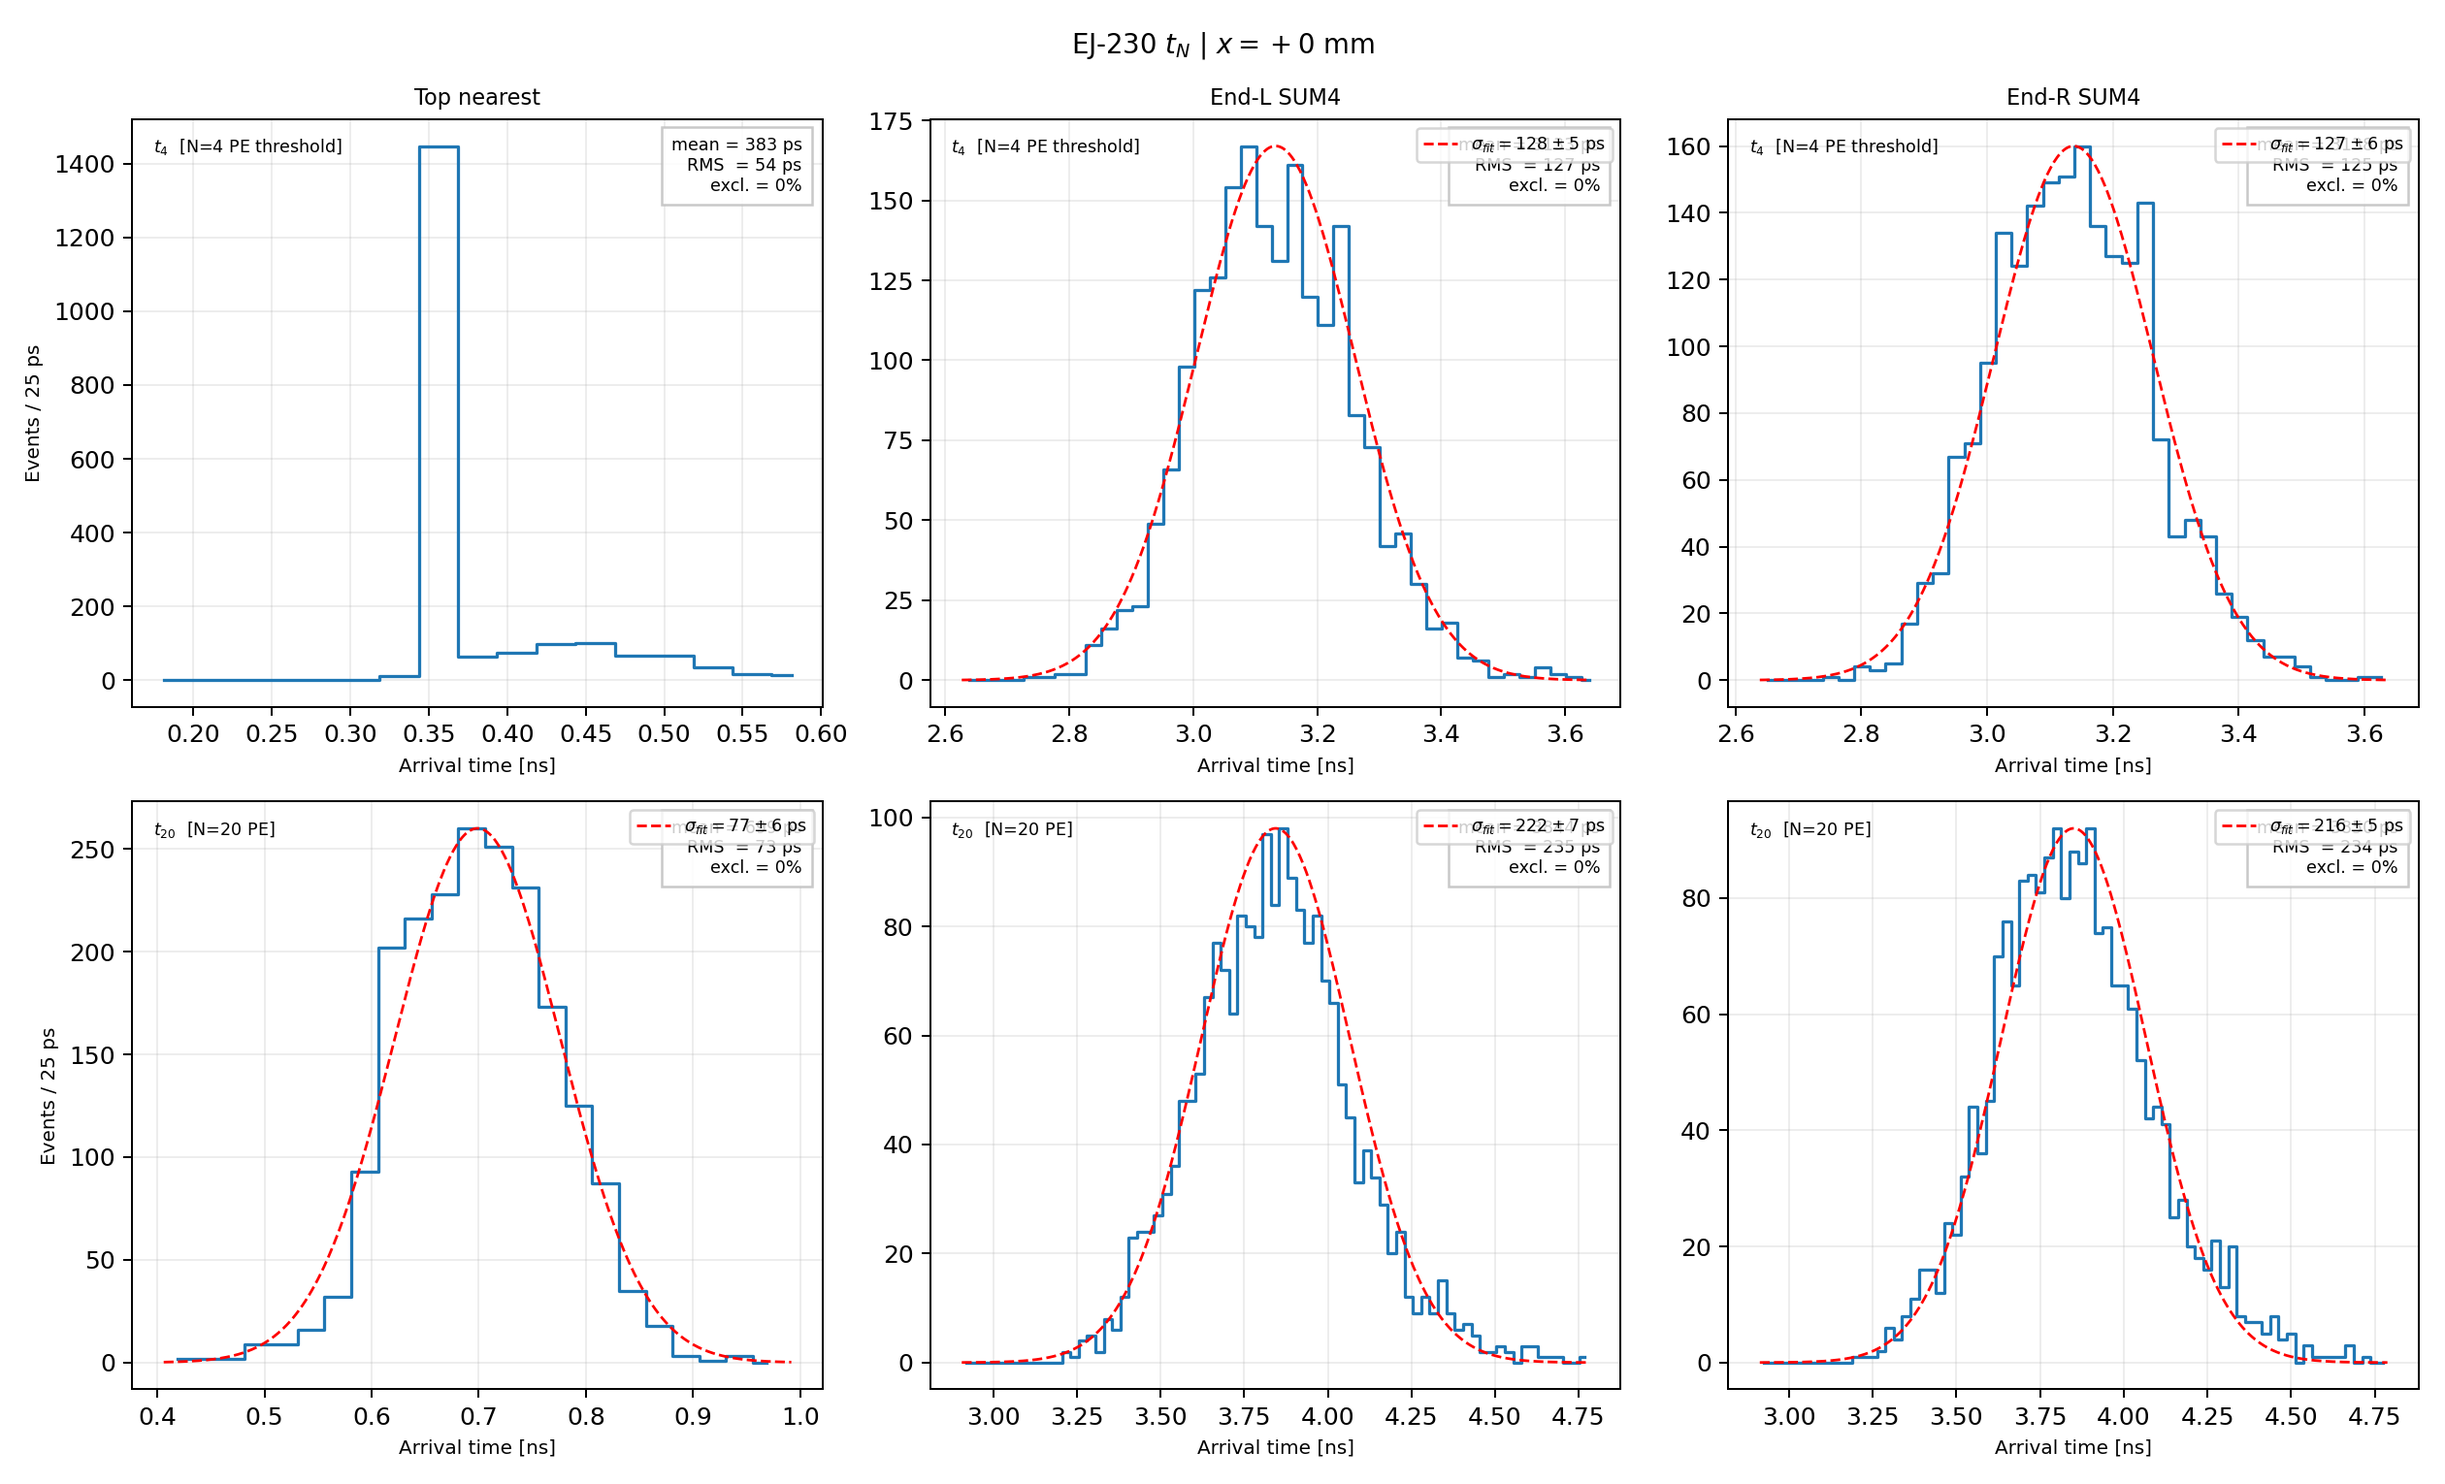
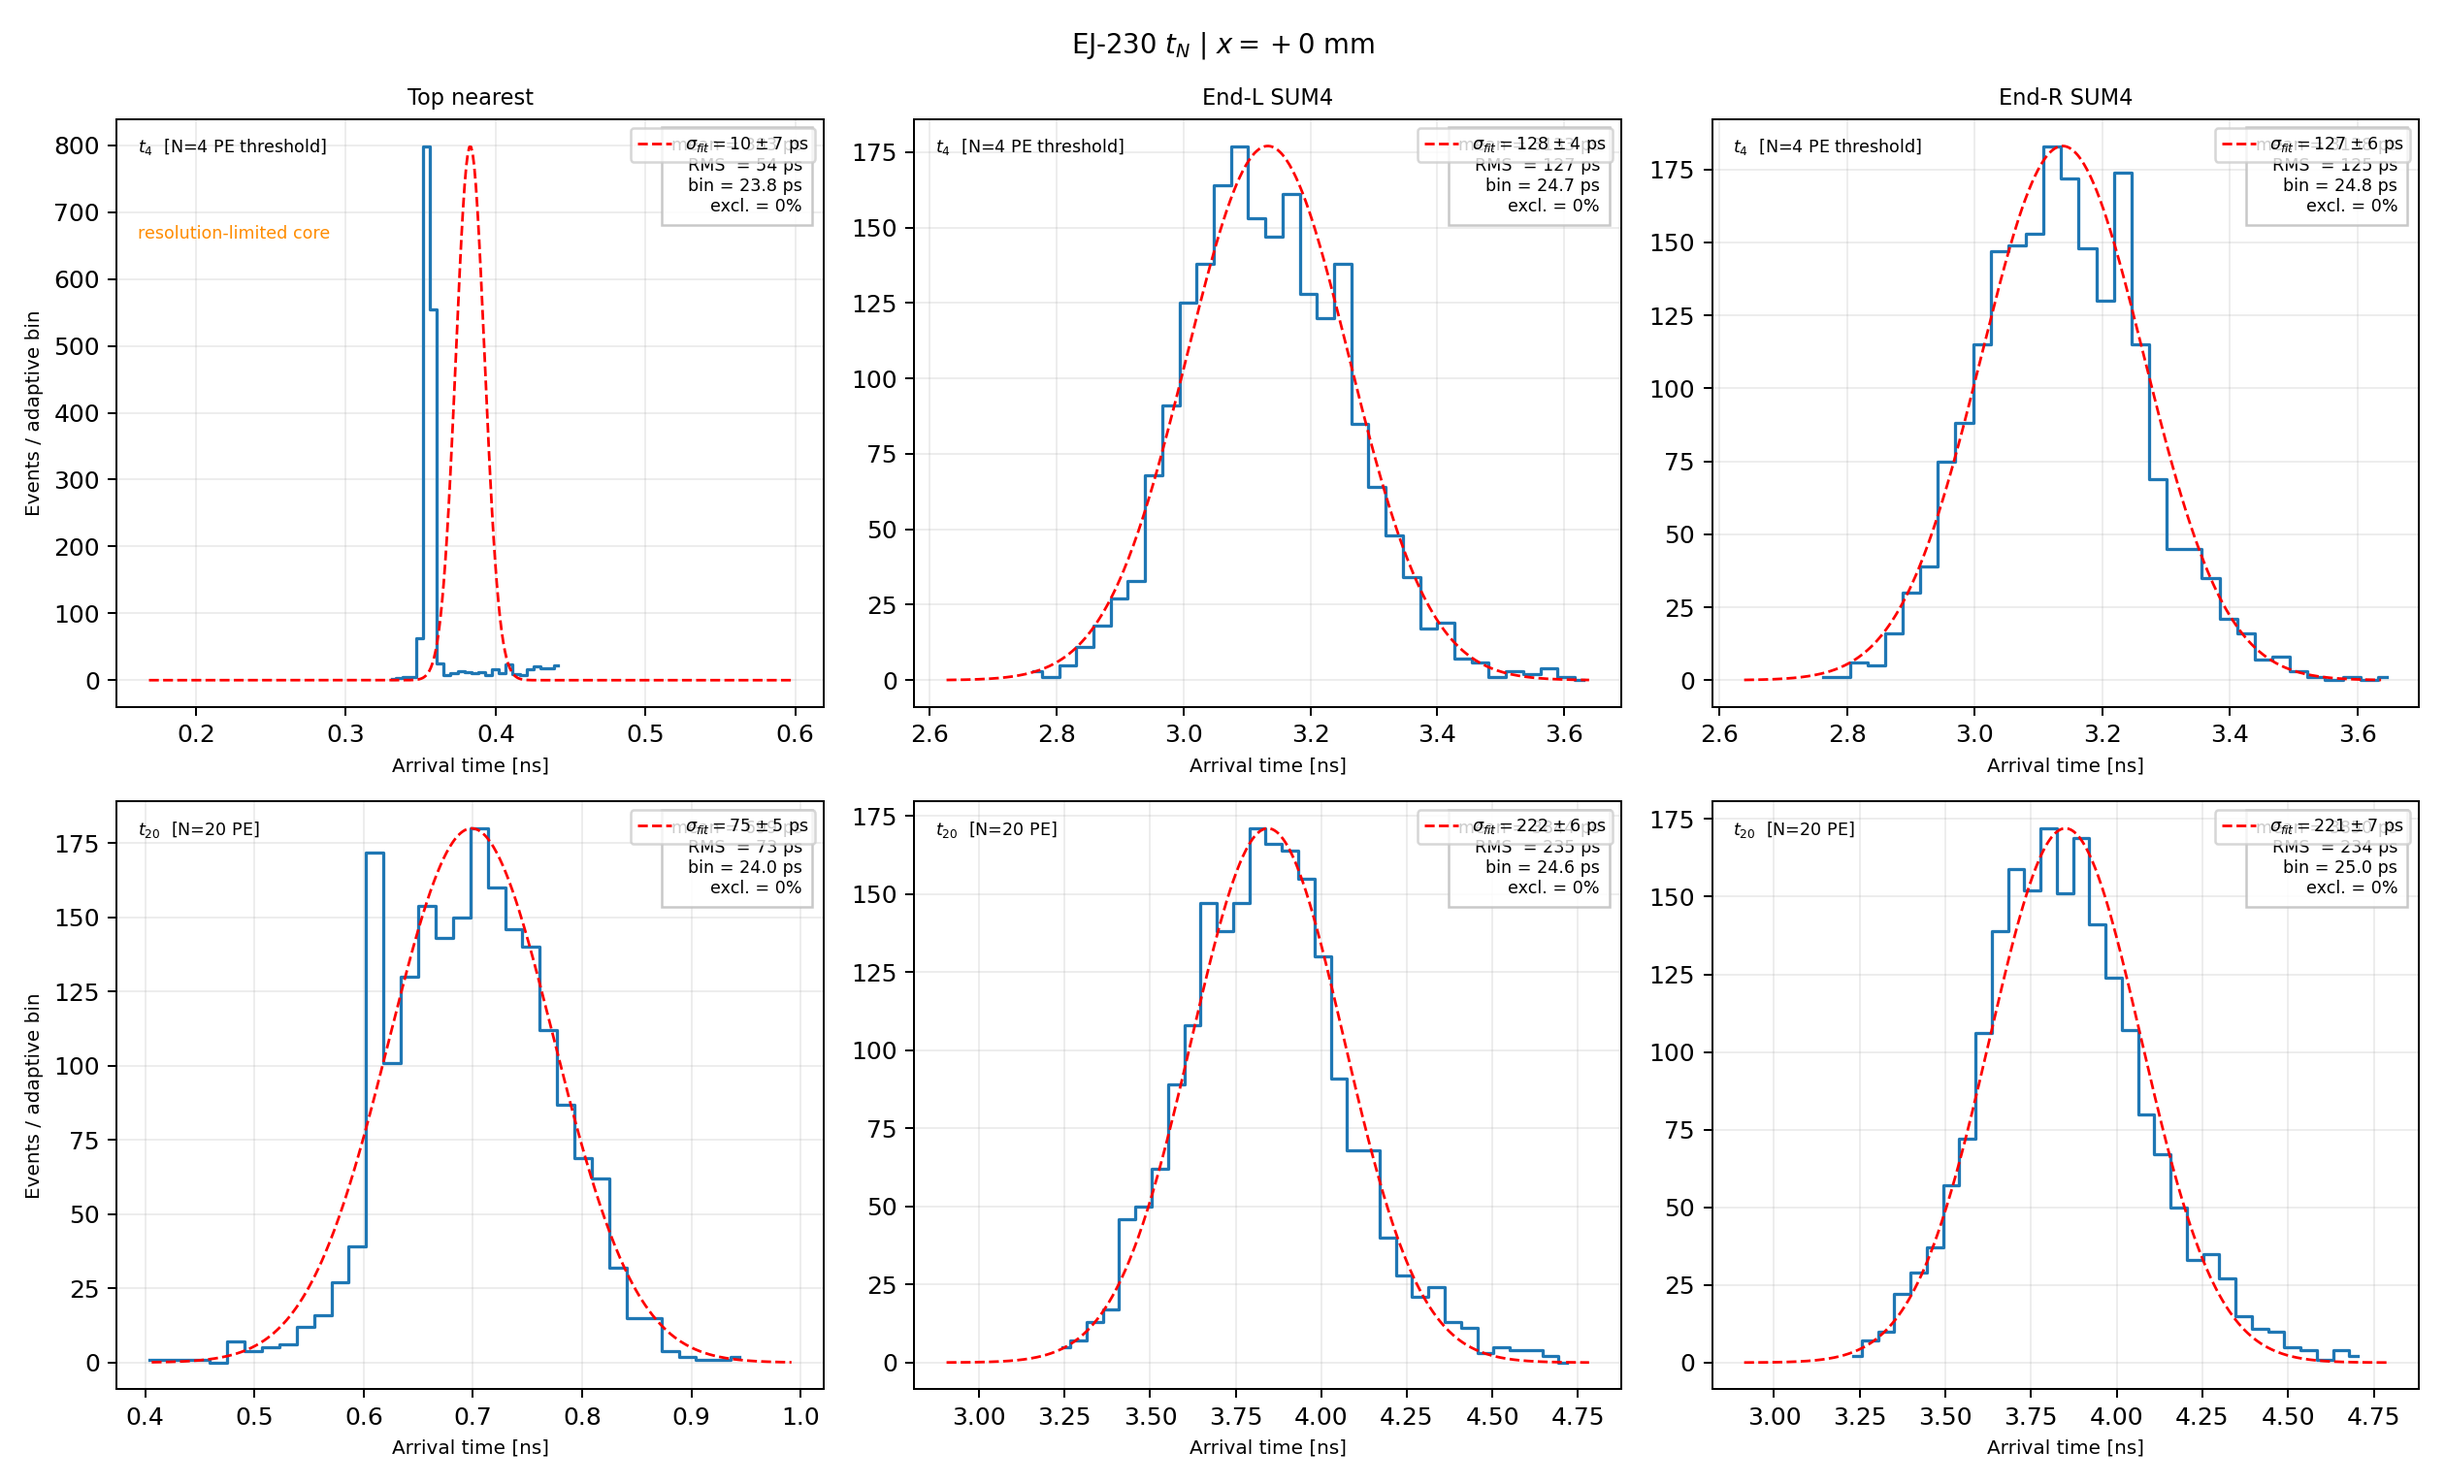
EXEC_14D/T2: unificar fitted sigma(t4)
Introduce el ajuste adaptativo y la regla resolution-limited en analysis/exec13/exec13_tN_analysis.py:47; regenera CSV y figuras con fitted sigma(t4) sin el piso espurio de 2 ps.

diff --git a/analysis/exec13/exec13_tN_analysis.py b/analysis/exec13/exec13_tN_analysis.py
@@ -39,8 +39,13 @@ from analysis.exec13.common13 import (  # noqa: E402
     expected_file,
 )
 
-DT_FINE_NS = 0.025
-DT_COARSE_NS = 0.100
+# HOOK_ADAPTIVE_T4_FIT: robust histogram and core-fit controls.
+FIT_IQR_BIN_SCALE = 2.0
+FIT_MIN_BIN_WIDTH_NS = 0.025
+FIT_MIN_BINS = 6
+FIT_MAX_BINS = 160
+FIT_INITIAL_CORE_SIGMA = 2.0
+FIT_FINAL_CORE_SIGMA = 2.5
 _N_TOP = len(TOP_IDS)
 
 
@@ -70,50 +75,115 @@ def compute_tN(
     return tN, frac_excl
 
 
-def gaussian_core_fit(
-    tN: np.ndarray, dt_ns: float
+def robust_sigma(values: np.ndarray) -> float:
+    q25, q75 = np.quantile(values, [0.25, 0.75])
+    sigma = float((q75 - q25) / 1.3489795003921634)
+    if not math.isfinite(sigma) or sigma <= 0.0:
+        sigma = float(np.std(values, ddof=1))
+    return sigma
+
+
+def adaptive_edges(
+    values: np.ndarray, minimum_width_ns: float = 0.0, use_full_range: bool = False,
+) -> np.ndarray:
+    """Freedman-Diaconis binning constrained by documented bin-count bounds."""
+    center = float(np.median(values))
+    spread = robust_sigma(values)
+    if use_full_range:
+        lo, hi = float(np.min(values)), float(np.max(values))
+    else:
+        lo = max(float(np.min(values)), center - 4.0 * spread)
+        hi = min(float(np.max(values)), center + 4.0 * spread)
+    if not math.isfinite(lo) or not math.isfinite(hi) or hi <= lo:
+        return np.linspace(center - 0.5, center + 0.5, FIT_MIN_BINS + 1)
+    iqr = spread * 1.3489795003921634
+    width = max(
+        minimum_width_ns,
+        FIT_IQR_BIN_SCALE * iqr / np.cbrt(max(len(values), 1)),
+    )
+    requested = int(math.ceil((hi - lo) / width)) if width > 0.0 else FIT_MIN_BINS
+    n_bins = min(FIT_MAX_BINS, max(1, requested))
+    return np.linspace(lo, hi, n_bins + 1)
+
+
+def fit_histogram(
+    values: np.ndarray,
+    mu0: float,
+    sigma0: float,
+    minimum_width_ns: float,
+    range_bounds: tuple[float, float] | None = None,
 ) -> tuple[float, float, float, float]:
+    if range_bounds is not None:
+        lo, hi = range_bounds
+        requested = int(math.ceil((hi - lo) / minimum_width_ns))
+        edges = np.linspace(lo, hi, max(requested, 1) + 1)
+    else:
+        edges = adaptive_edges(values, minimum_width_ns, use_full_range=minimum_width_ns > 0.0)
+    counts, _ = np.histogram(values, bins=edges)
+    centers = 0.5 * (edges[:-1] + edges[1:])
+    valid = np.ones_like(counts, dtype=bool) if minimum_width_ns > 0.0 else counts > 0
+    if np.count_nonzero(valid) < 3:
+        raise RuntimeError("fewer than three occupied adaptive bins")
+    bin_width = float(edges[1] - edges[0])
+    popt, pcov = curve_fit(
+        _gauss,
+        centers[valid],
+        counts[valid].astype(float),
+        p0=[float(counts.max()), mu0, sigma0],
+        bounds=(
+            [0.0, float(edges[0]), max(bin_width / 10.0, np.finfo(float).eps)],
+            [math.inf, float(edges[-1]), float(edges[-1] - edges[0])],
+        ),
+        maxfev=20000,
+    )
+    sigma = abs(float(popt[2]))
+    variance = float(pcov[2, 2])
+    error = math.sqrt(variance) if variance >= 0.0 else math.nan
+    counting_error = sigma / math.sqrt(2.0 * max(len(values) - 1, 1))
+    if not math.isfinite(error) or error > sigma:
+        error = counting_error
+    return float(popt[1]), sigma, error, bin_width
+
+
+def gaussian_core_fit(
+    tN: np.ndarray,
+) -> tuple[float, float, float, float, float, bool, str]:
+    """Adaptive Gaussian core fit, stable from few-ps to broad t_N cores."""
     valid = tN[np.isfinite(tN)]
     n = len(valid)
     if n < 20:
         m = float(np.mean(valid)) if n > 0 else math.nan
         r = float(np.std(valid, ddof=1)) if n > 1 else math.nan
-        return m, r, math.nan, math.nan
+        return m, r, math.nan, math.nan, math.nan, False, "insufficient"
     mean0 = float(np.mean(valid))
     rms0 = float(np.std(valid, ddof=1))
-    lo0, hi0 = mean0 - 2.0 * rms0, mean0 + 2.0 * rms0
+    median0 = float(np.median(valid))
+    robust0 = robust_sigma(valid)
+    lo0 = mean0 - FIT_INITIAL_CORE_SIGMA * rms0
+    hi0 = mean0 + FIT_INITIAL_CORE_SIGMA * rms0
     core0 = valid[(valid >= lo0) & (valid <= hi0)]
-    if len(core0) < 10:
-        return mean0, rms0, math.nan, math.nan
-    edges0 = np.arange(lo0, hi0 + dt_ns * 0.5, dt_ns)
-    if len(edges0) < 4:
-        return mean0, rms0, math.nan, math.nan
-    counts0, _ = np.histogram(core0, bins=edges0)
-    centers0 = 0.5 * (edges0[:-1] + edges0[1:])
     try:
-        popt0, _ = curve_fit(_gauss, centers0, counts0.astype(float),
-                             p0=[float(counts0.max()), mean0, rms0], maxfev=5000)
-        mu1, sig1 = float(popt0[1]), abs(float(popt0[2]))
+        mu1, sig1, err1, bin1 = fit_histogram(
+            core0, mean0, rms0, FIT_MIN_BIN_WIDTH_NS, (lo0, hi0)
+        )
     except Exception:
-        return mean0, rms0, math.nan, math.nan
-    lo1, hi1 = mu1 - 2.0 * sig1, mu1 + 2.0 * sig1
+        try:
+            mu1, sig1, err1, bin1 = fit_histogram(core0, median0, robust0, 0.0)
+        except Exception:
+            return mean0, rms0, math.nan, math.nan, math.nan, False, "failed-pass-one"
+        return mean0, rms0, sig1, err1, bin1, True, "resolution-limited-adaptive"
+    lo1 = mu1 - FIT_FINAL_CORE_SIGMA * sig1
+    hi1 = mu1 + FIT_FINAL_CORE_SIGMA * sig1
     core1 = valid[(valid >= lo1) & (valid <= hi1)]
-    if len(core1) < 10:
-        return mean0, rms0, sig1, math.nan
-    edges1 = np.arange(lo1, hi1 + dt_ns * 0.5, dt_ns)
-    if len(edges1) < 4:
-        return mean0, rms0, sig1, math.nan
-    counts1, _ = np.histogram(core1, bins=edges1)
-    centers1 = 0.5 * (edges1[:-1] + edges1[1:])
     try:
-        popt1, pcov1 = curve_fit(_gauss, centers1, counts1.astype(float),
-                                 p0=[float(counts1.max()), mu1, sig1], maxfev=5000)
-        sigma_fit = abs(float(popt1[2]))
-        var_sig = float(pcov1[2, 2])
-        sigma_fit_err = math.sqrt(var_sig) if var_sig >= 0.0 else math.nan
+        _, sigma_fit, sigma_fit_err, bin_width = fit_histogram(
+            core1, mu1, sig1, FIT_MIN_BIN_WIDTH_NS, (lo1, hi1)
+        )
     except Exception:
-        return mean0, rms0, sig1, math.nan
-    return mean0, rms0, sigma_fit, sigma_fit_err
+        limited = bool(sig1 <= FIT_MIN_BIN_WIDTH_NS)
+        return mean0, rms0, sig1, err1, bin1, limited, "adaptive-histogram-pass-one"
+    limited = bool(sigma_fit <= bin_width)
+    return mean0, rms0, sigma_fit, sigma_fit_err, bin_width, limited, "adaptive-histogram"
 
 
 def _top_profile(event_id: np.ndarray, global_id: np.ndarray) -> np.ndarray:
@@ -168,14 +238,12 @@ def analyze_position(x_mm: int, data_dir: pathlib.Path) -> tuple:
     else:
         near_ids, near_label = right_ids, "End-R"
         far_ids, far_label = left_ids, "End-L"
-    far_dt = DT_FINE_NS if abs(dist_left - dist_right) < 50.0 else DT_COARSE_NS
-
     groups = [
-        ("top_nearest", (nearest_top_id,), DT_FINE_NS,
+        ("top_nearest", (nearest_top_id,),
          f"Top nearest ID {nearest_top_id}"),
-        ("end_near", near_ids, DT_FINE_NS,
+        ("end_near", near_ids,
          f"{near_label} SUM4 {{{','.join(map(str, near_ids))}}}"),
-        ("end_far", far_ids, far_dt,
+        ("end_far", far_ids,
          f"{far_label} SUM4 {{{','.join(map(str, far_ids))}}}"),
     ]
 
@@ -183,15 +251,20 @@ def analyze_position(x_mm: int, data_dir: pathlib.Path) -> tuple:
     panels: dict = {}
 
     for N in N_THRESHOLDS:
-        for grp_key, ch_ids, dt_ns, label in groups:
+        for grp_key, ch_ids, label in groups:
             tN, frac_excl = compute_tN(event_id, global_id, times, ch_ids, N)
             valid = tN[np.isfinite(tN)]
             mean_v = float(np.mean(valid)) if len(valid) > 0 else math.nan
             rms_v = float(np.std(valid, ddof=1)) if len(valid) > 1 else math.nan
             if frac_excl > 0.5:
-                sigma_fit = sigma_fit_err = math.nan
+                sigma_fit = sigma_fit_err = bin_width = math.nan
+                resolution_limited = False
+                fit_method = "reach-below-50-percent"
             else:
-                _, _, sigma_fit, sigma_fit_err = gaussian_core_fit(tN, dt_ns)
+                (
+                    _, _, sigma_fit, sigma_fit_err, bin_width,
+                    resolution_limited, fit_method,
+                ) = gaussian_core_fit(tN)
             rows.append({
                 "x_mm": x_mm, "group": grp_key, "N": N,
                 "n_events": N_EVENTS, "frac_excluded": round(frac_excl, 4),
@@ -199,9 +272,14 @@ def analyze_position(x_mm: int, data_dir: pathlib.Path) -> tuple:
                 "rms_ns": round(rms_v, 5) if math.isfinite(rms_v) else float("nan"),
                 "sigma_fit_ns": round(sigma_fit, 6) if math.isfinite(sigma_fit) else float("nan"),
                 "sigma_fit_err_ns": round(sigma_fit_err, 6) if math.isfinite(sigma_fit_err) else float("nan"),
+                "fit_bin_width_ns": round(bin_width, 8) if math.isfinite(bin_width) else float("nan"),
+                "resolution_limited": resolution_limited, "fit_method": fit_method,
                 "channels": str(ch_ids), "near_label": near_label, "far_label": far_label,
             })
-            panels[(N, grp_key)] = (tN, dt_ns, label, frac_excl, sigma_fit, sigma_fit_err)
+            panels[(N, grp_key)] = (
+                tN, label, frac_excl, sigma_fit, sigma_fit_err, bin_width,
+                resolution_limited,
+            )
 
     return rows, panels, nearest_top_id, near_label, far_label
 
@@ -214,11 +292,14 @@ def plot_position(x_mm: int, panels: dict, near_label: str, far_label: str,
     for row_i, N in enumerate(N_THRESHOLDS):
         for col_i, grp_key in enumerate(("top_nearest", "end_near", "end_far")):
             ax = axes[row_i, col_i]
-            tN, dt_ns, label, frac_excl, sigma_fit, sigma_fit_err = panels[(N, grp_key)]
+            (
+                tN, label, frac_excl, sigma_fit, sigma_fit_err, bin_width,
+                resolution_limited,
+            ) = panels[(N, grp_key)]
             valid = tN[np.isfinite(tN)]
             ax.set_xlabel("Arrival time [ns]", fontsize=8)
             if col_i == 0:
-                ax.set_ylabel(f"Events / {dt_ns*1000:.0f} ps", fontsize=8)
+                ax.set_ylabel("Events / adaptive bin", fontsize=8)
             if row_i == 0:
                 ax.set_title(col_titles[col_i], fontsize=9)
             if frac_excl > 0.5:
@@ -238,9 +319,7 @@ def plot_position(x_mm: int, panels: dict, near_label: str, far_label: str,
             rms_v = float(np.std(valid, ddof=1))
             lo = max(0.0, mean_v - 4.0 * rms_v)
             hi = mean_v + 4.0 * rms_v
-            edges = np.arange(lo, hi + dt_ns * 0.5, dt_ns)
-            if len(edges) < 3:
-                edges = np.linspace(lo, hi, 50)
+            edges = adaptive_edges(valid)
             counts, edges = np.histogram(valid, bins=edges)
             centers = 0.5 * (edges[:-1] + edges[1:])
             ax.step(centers, counts, where="mid", lw=1.3, color="tab:blue")
@@ -252,10 +331,17 @@ def plot_position(x_mm: int, panels: dict, near_label: str, far_label: str,
                         label=(rf"$\sigma_{{fit}}={sigma_fit*1000:.0f}"
                                rf"\pm{sigma_fit_err*1000:.0f}$ ps"))
                 ax.legend(fontsize=7, loc="upper right")
+            if resolution_limited:
+                ax.text(
+                    0.03, 0.82, "resolution-limited core",
+                    transform=ax.transAxes, ha="left", va="top", fontsize=7,
+                    color="darkorange",
+                )
             excl_str = f"{100*frac_excl:.1f}%" if frac_excl > 0 else "0%"
             ax.text(0.97, 0.97,
                     f"mean = {mean_v*1000:.0f} ps\n"
                     f"RMS  = {rms_v*1000:.0f} ps\n"
+                    f"bin = {bin_width*1000:.1f} ps\n"
                     f"excl. = {excl_str}",
                     transform=ax.transAxes, ha="right", va="top", fontsize=7,
                     bbox={"facecolor": "white", "alpha": 0.85, "edgecolor": "0.75"})
